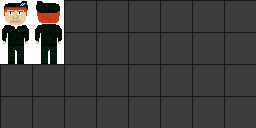
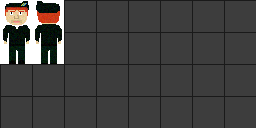
Added color to the hitbox

Changed region(s): [[0.0, 0.2188, 0.125, 0.5], [0.0, 0.0, 0.125, 0.2188]]

diff --git a/Source/Trevi/Dalthow/Object/Player.java b/Source/Trevi/Dalthow/Object/Player.java
@@ -9,6 +9,7 @@
 
 package Trevi.Dalthow.Object;
 
+import java.awt.Color;
 import java.awt.Graphics;
 import java.awt.Graphics2D;
 import java.awt.Rectangle;
@@ -80,12 +81,12 @@ public class Player
 	
 	public Rectangle getBoundsBottom(int Par1, int Par2)
 	{
-		return new Rectangle(Par1 / 2 - 32 + (32 / 2 * Reference.Scale) - ((32 * Reference.Scale / 2) / 2), Par2 / 2 - 64 + (64 / 2 * Reference.Scale), 32 / 2 * Reference.Scale, 64 * Reference.Scale / 2);
+		return new Rectangle(Par1 / 2 - 32 + (32 / 2 * Reference.Scale) - ((32 * Reference.Scale / 2) / 2), Par2 / 2 - 48 + (64 / 2 * Reference.Scale), 32 / 2 * Reference.Scale, 48 * Reference.Scale / 2);
 	}
 	
 	public Rectangle getBoundsTop(int Par1, int Par2)
 	{
-		return new Rectangle(Par1 / 2 - 32 + (32 / 2 * Reference.Scale) - ((32 * Reference.Scale / 2) / 2), Par2 / 2 - 32, 32 / 2 * Reference.Scale, 64 * Reference.Scale / 2);
+		return new Rectangle(Par1 / 2 - 32 + (32 / 2 * Reference.Scale) - ((32 * Reference.Scale / 2) / 2), Par2 / 2 - 32, 32 / 2 * Reference.Scale, 32 * Reference.Scale / 2);
 	}
 	
 	public Rectangle getBoundsRight(int Par1, int Par2)
@@ -117,12 +118,20 @@ public class Player
 		{
 			Graphics2D Par3 = (Graphics2D) Graphics;
 			
-			Par3.draw(getBounds(Par1, Par2));
-			
+			Par3.setColor(Color.red);
 			Par3.draw(getBoundsTop(Par1, Par2));
+			
+			Par3.setColor(Color.blue);
 			Par3.draw(getBoundsBottom(Par1, Par2));
+			
+			Par3.setColor(Color.green);
 			Par3.draw(getBoundsLeft(Par1, Par2));
+			
+			Par3.setColor(Color.yellow);
 			Par3.draw(getBoundsRight(Par1, Par2));
+			
+			Par3.setColor(Color.darkGray);
+			Par3.draw(getBounds(Par1, Par2));
 		}
 	}
 	
